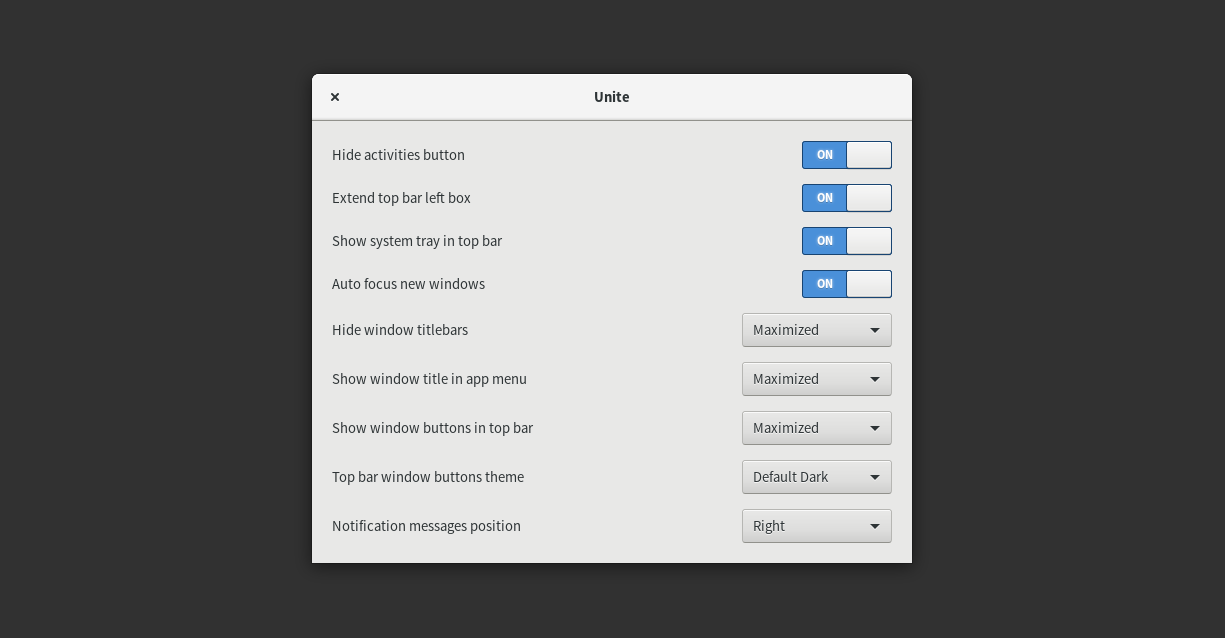
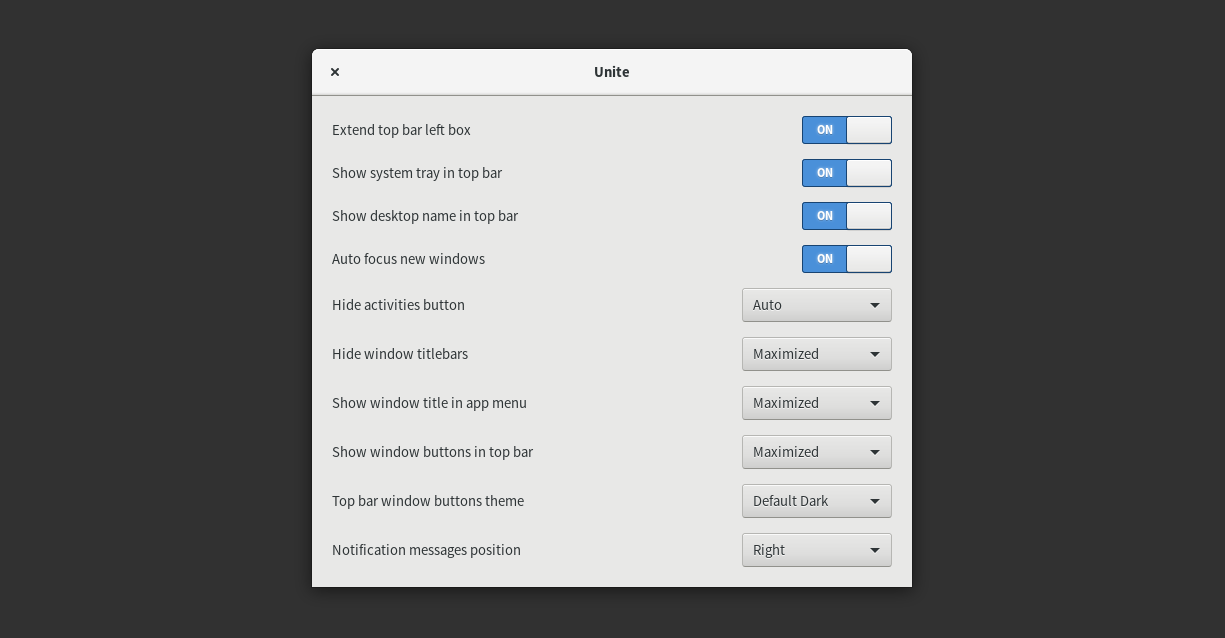
update readme, screenshots and metadata description

diff --git a/README.md b/README.md
@@ -15,6 +15,7 @@ Unite is a GNOME Shell extension which makes a few layout tweaks to the top pane
 * Moves legacy tray icons to the top panel.
 * Moves notifications to the right.
 * Hides activities button.
+* Adds desktop name to the top panel.
 
 Settings are provided to enable/disable or customize the available tweaks.
 
